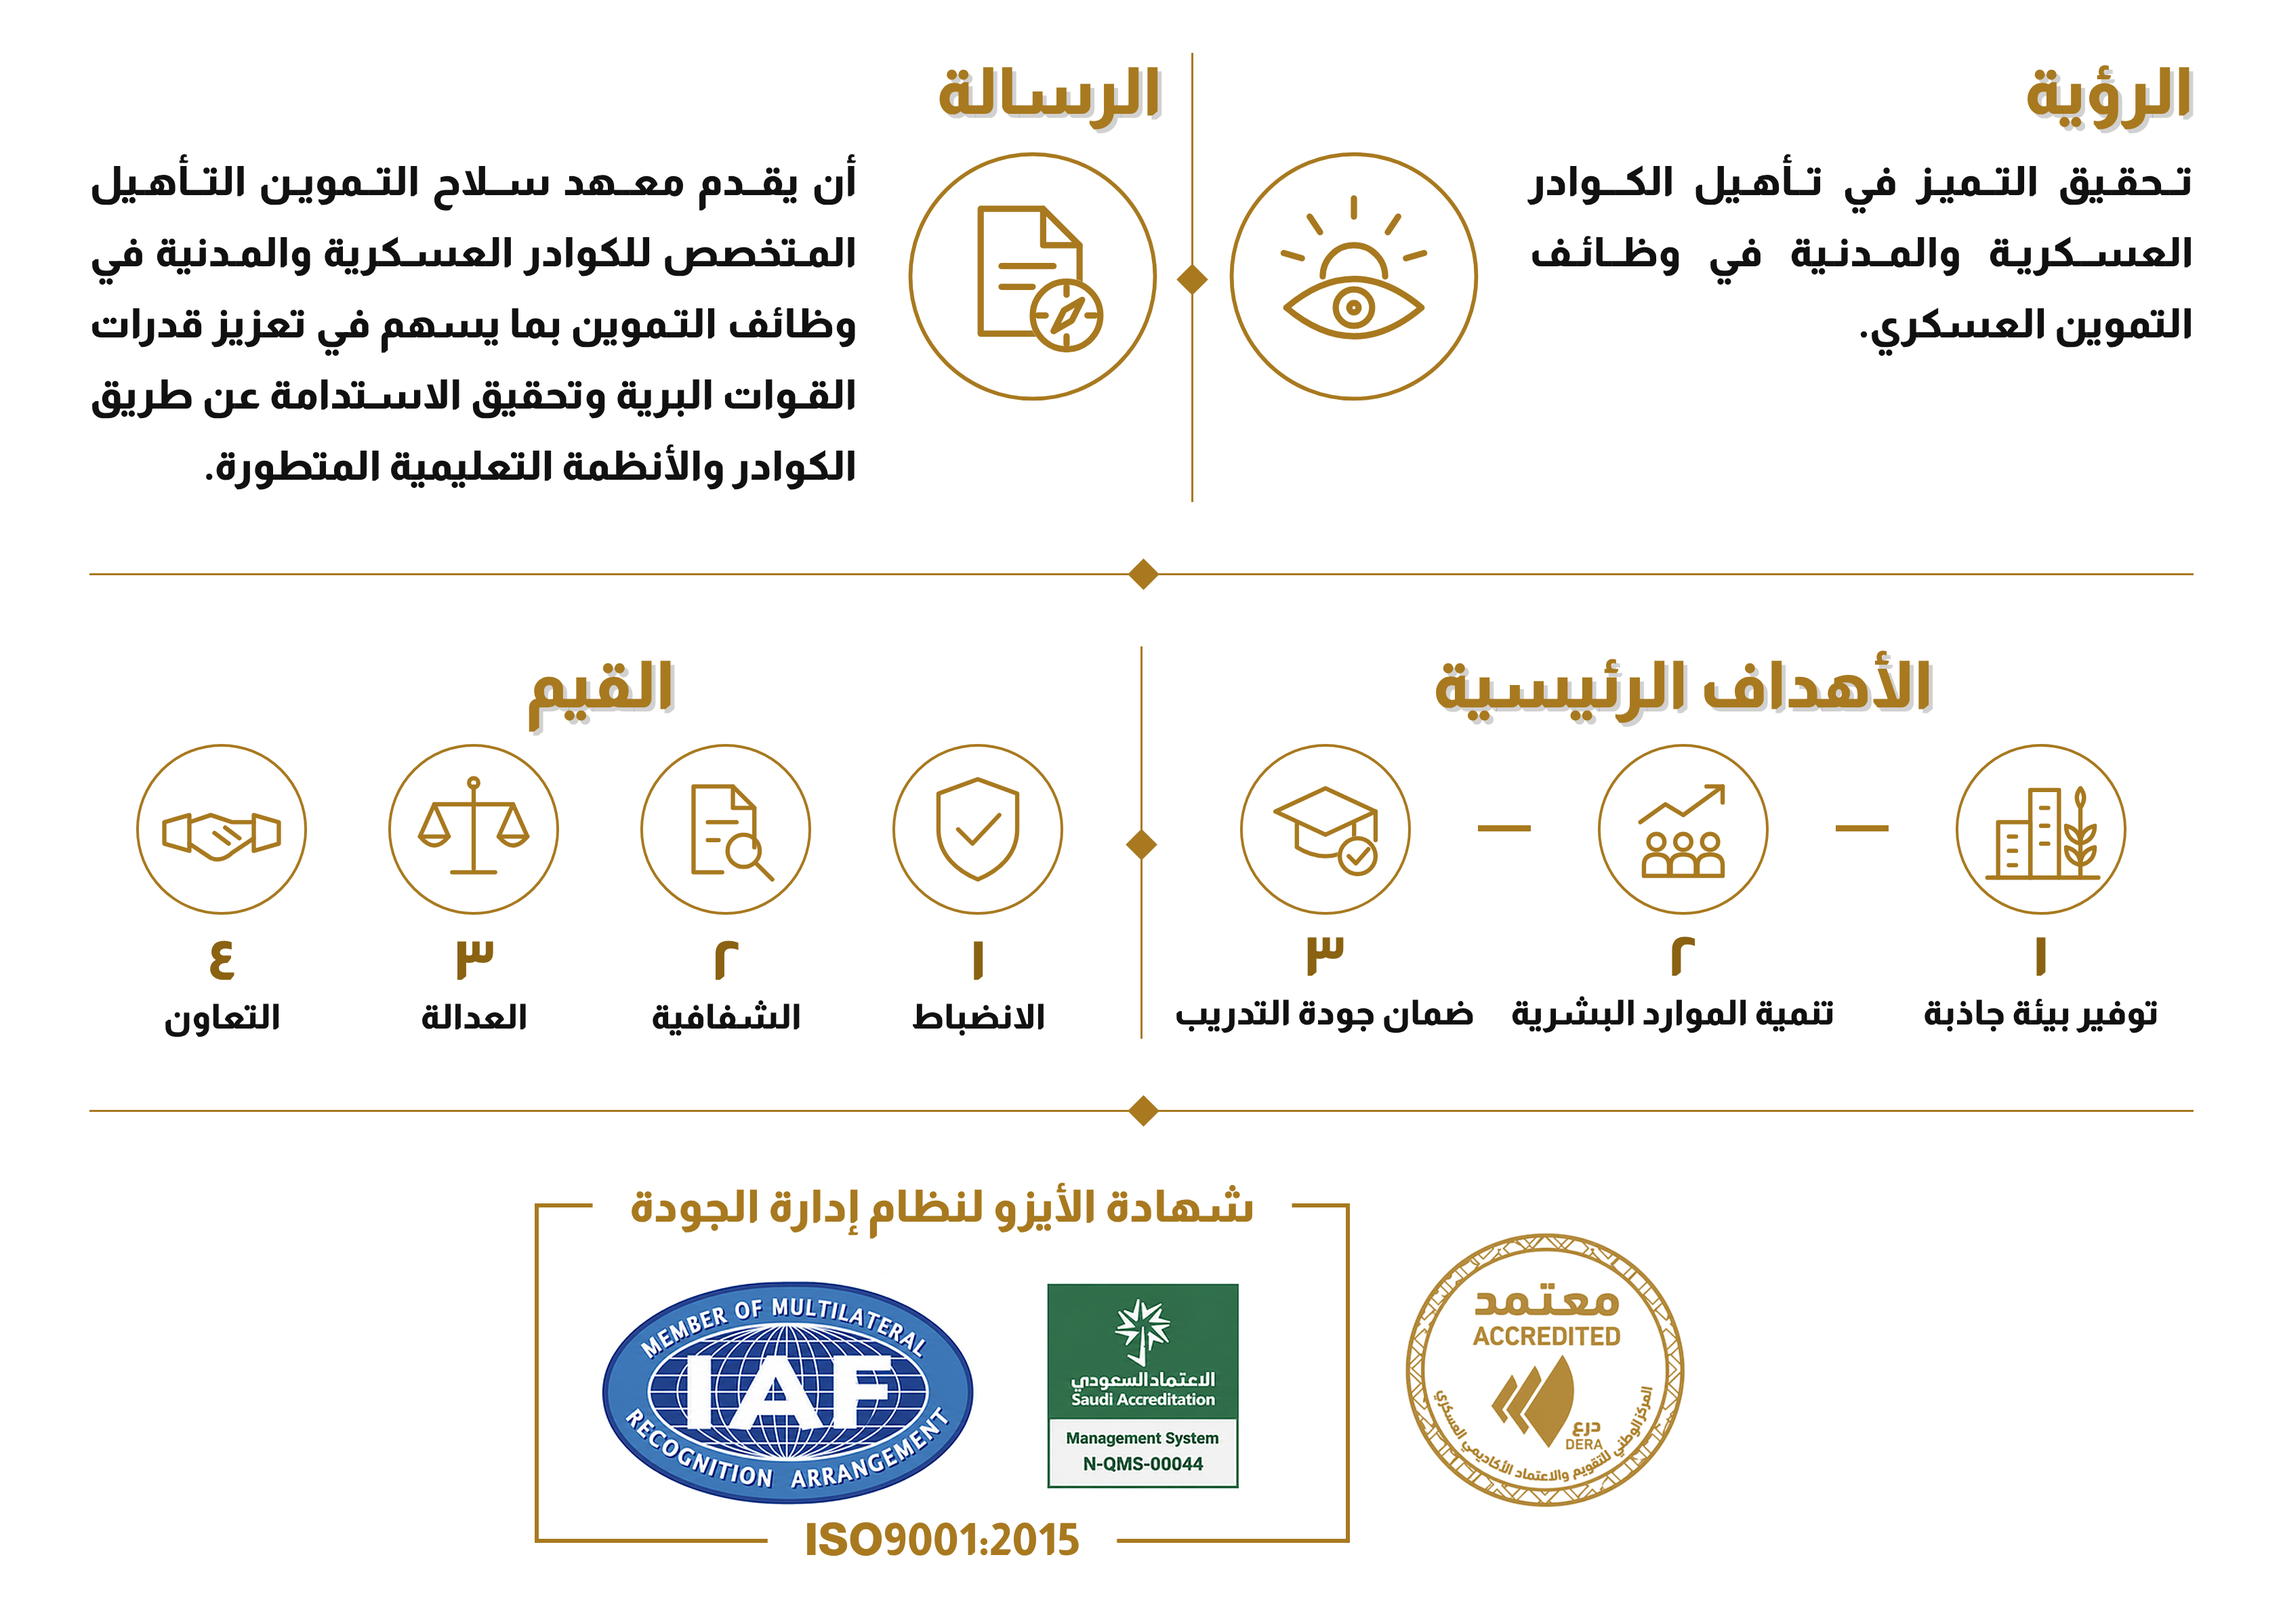
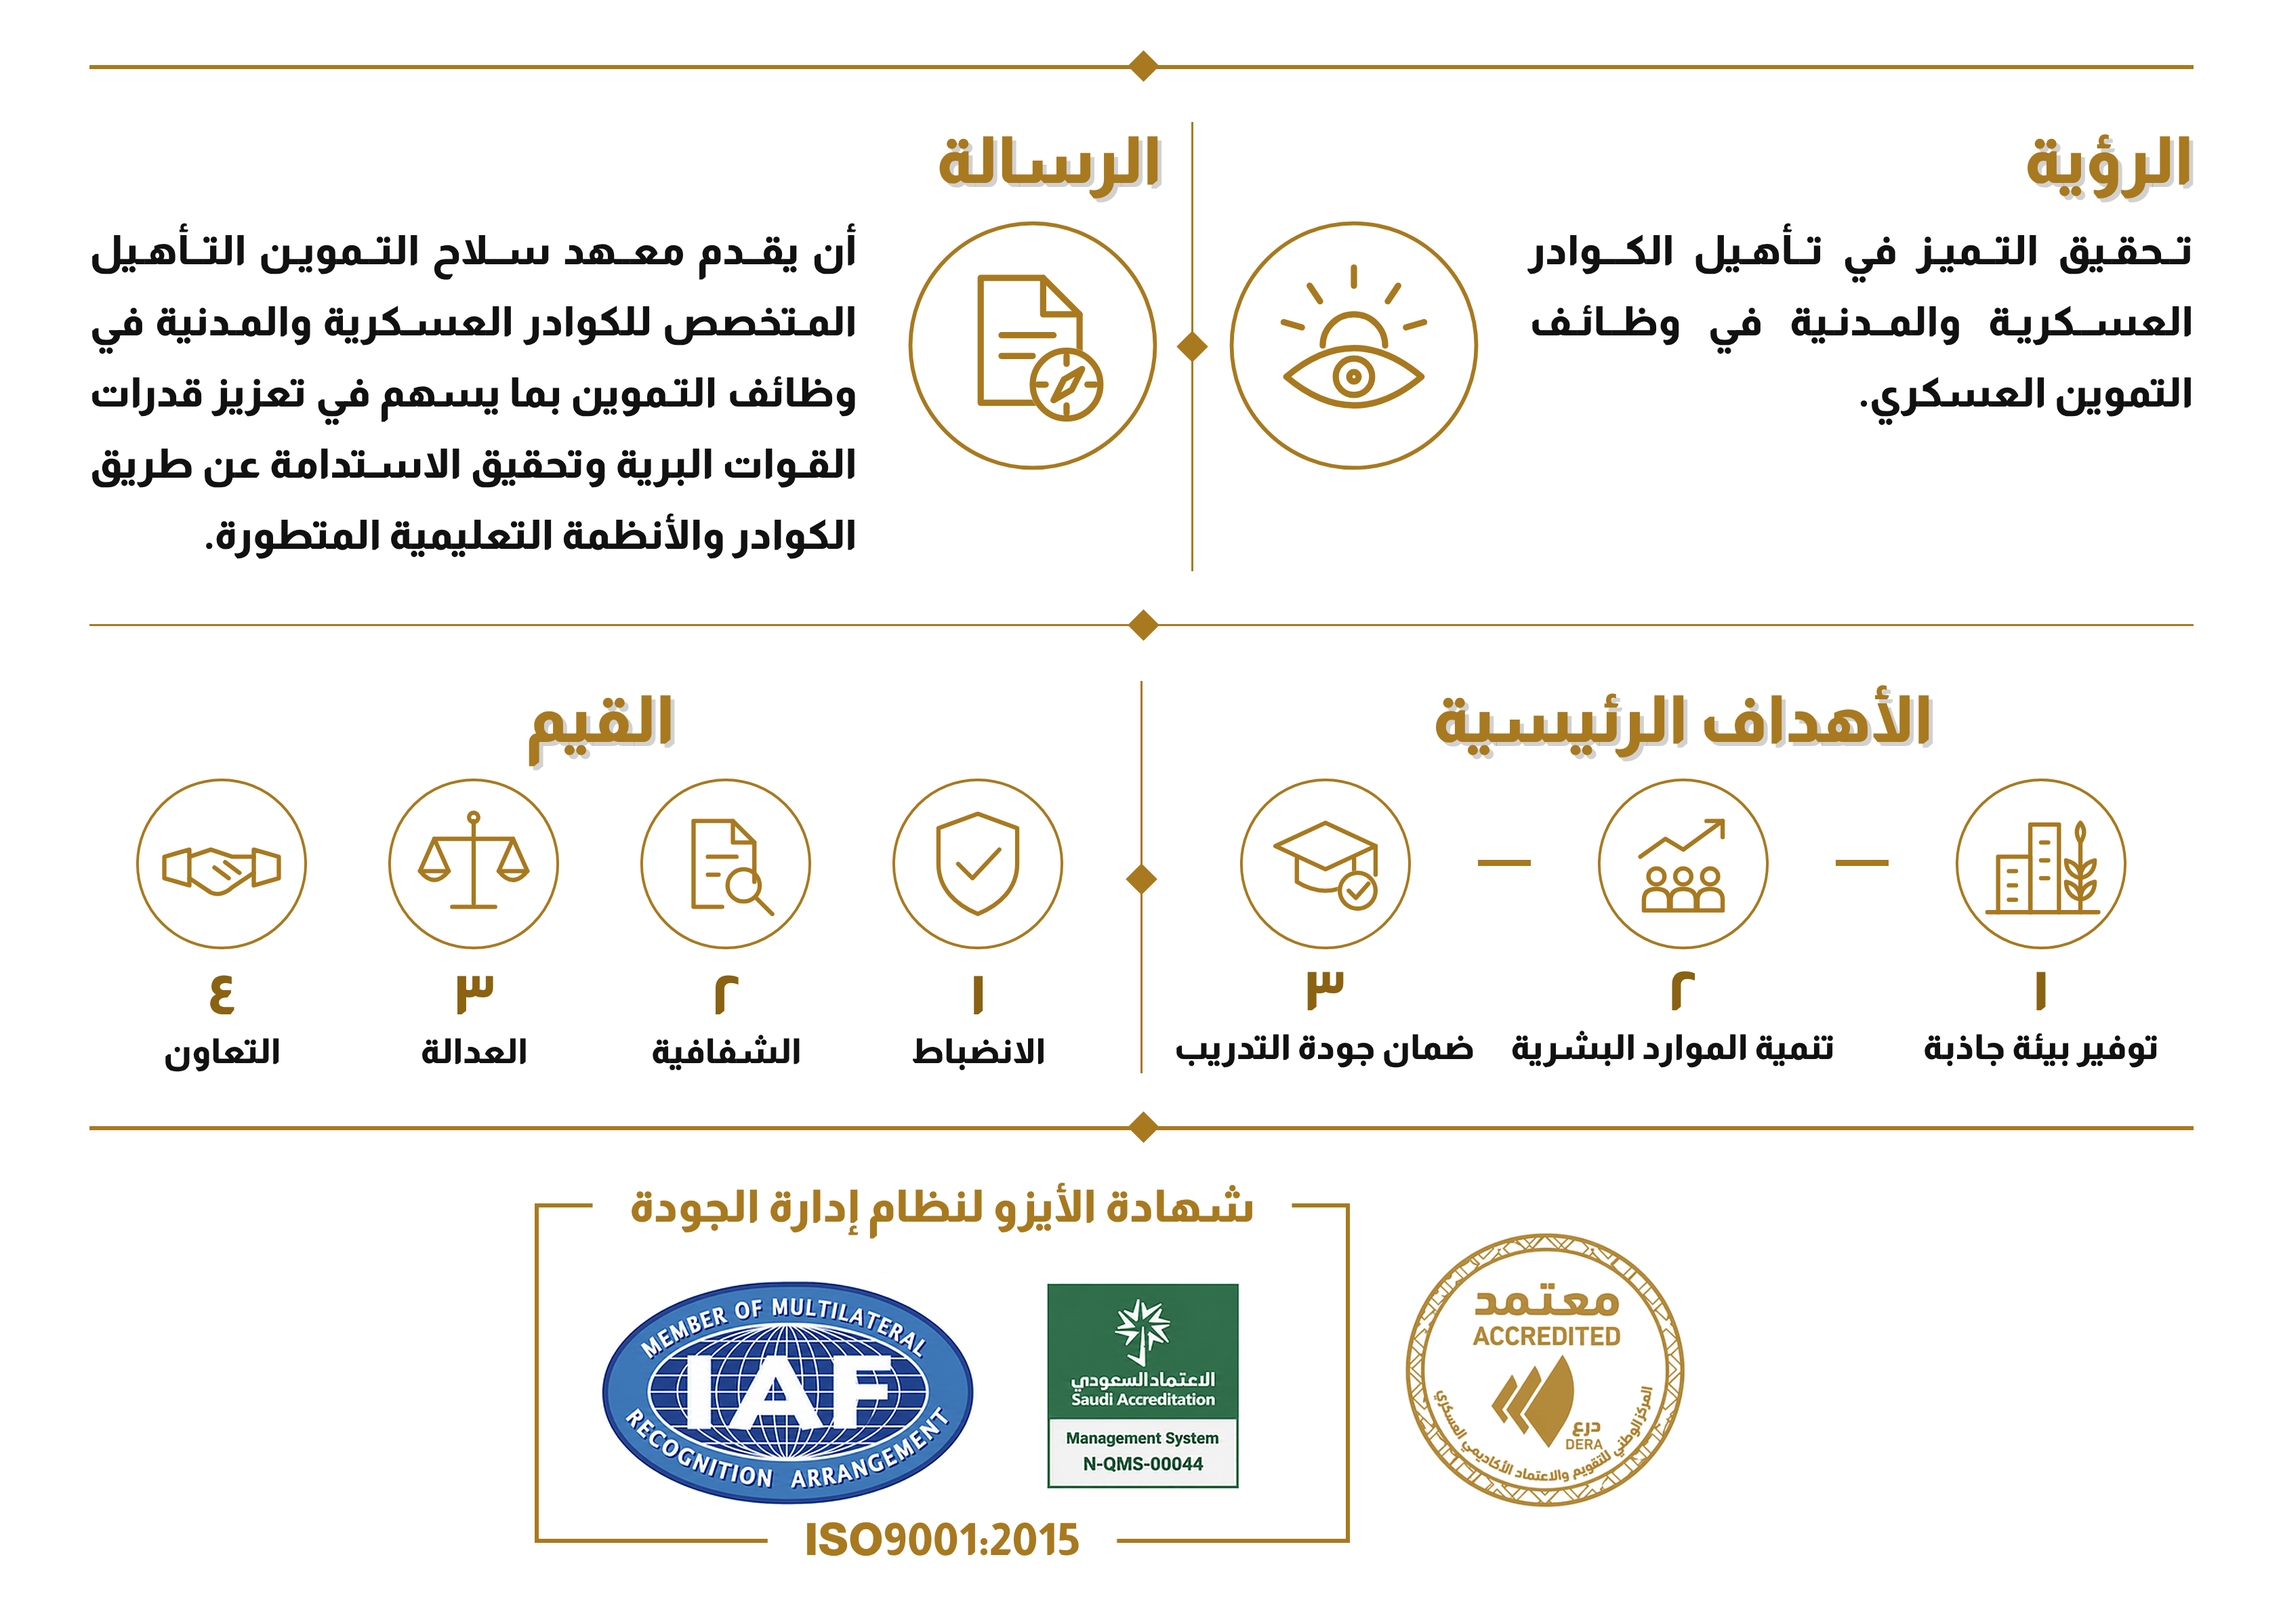
Add divider above vision and mission
Claude-Session: https://claude.ai/code/session_01HHtdcPQB4WrWFBfNpP3BhG

diff --git a/infographic/index.html b/infographic/index.html
@@ -63,6 +63,8 @@
 <body>
 <div class="page">
 
+  <div class="hdiv"></div>
+
   <div class="cols">
     <section id="vision">
       <h2>الرؤية</h2>
